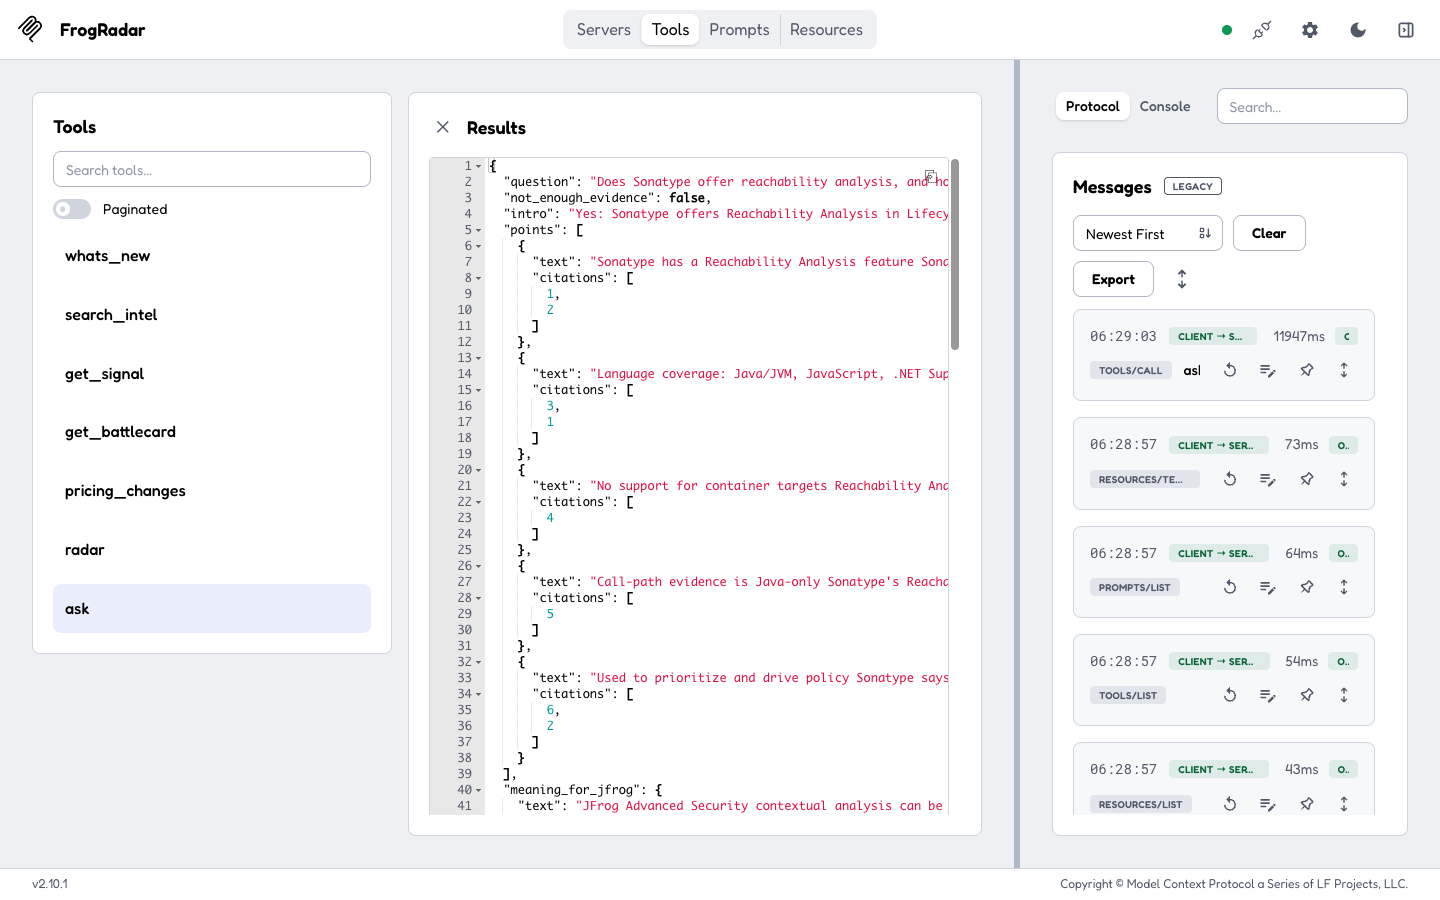
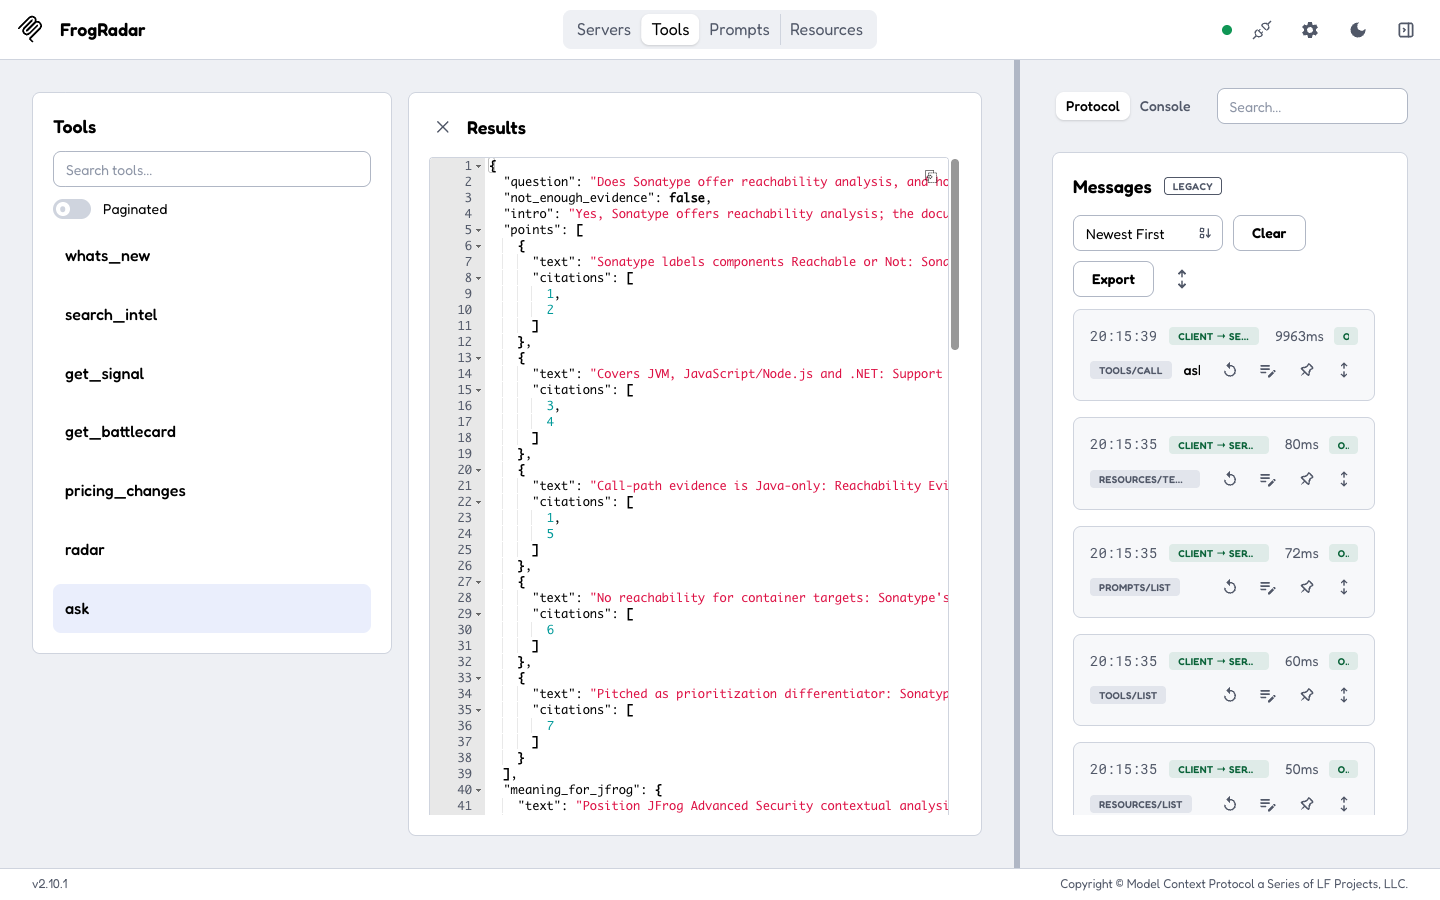
Screenshots: a running mission and the MCP ask tool, retaken against the current app
A research mission (Chainguard, from its battlecard; 4 sub-questions) captured mid-run on a
fresh seeded stack: the steps tile reads "4 of 16 planned", 4 steps per approved
sub-question, no fixed maximum. The MCP Inspector ask shot uses the same stack. Cost: mission
$0.039, ask $0.022.

diff --git a/docs/FEATURES.md b/docs/FEATURES.md
@@ -398,12 +398,11 @@ Install:
 - **Claude Desktop / claude.ai:** `cd skills && zip -r frogradar-ci-analyst.zip frogradar-ci-analyst`, then
   upload the zip under Settings → Capabilities → Skills.
 
-**Verified with the MCP Inspector (screenshots retaken 2026-10-24, stdio, a fresh stack with the seed, no provider
-keys):** tools listed ([screenshot](screenshots/mcp-inspector-tools.png)); `whats_new` found nothing in the last day
+**Verified with the MCP Inspector (screenshots retaken 2026-10-24, stdio, a fresh stack with the seed; the free
+tools ran without provider keys):** tools listed ([screenshot](screenshots/mcp-inspector-tools.png)); `whats_new` found nothing in the last day
 and widened to 7 days, 15 signals, saying so in its note ([screenshot](screenshots/mcp-whats-new.png));
 `get_battlecard("sonatype")` 17 sources and 10 matrix rows in 14.5 KB; `radar()` Ztrust, Akrites, PatchWave, Primod,
-Code Genome Project, Sonar ([screenshot](screenshots/mcp-radar.png)). Earlier (2026-10-22, dev DB), one paid `ask`, $0.022 (Sonnet $0.018 + gpt-5.4-mini check
-$0.004): "Does Sonatype offer reachability analysis, and how does it compare with JFrog's contextual analysis?"
-→ yes, 5 cited points (Java/JVM, JavaScript, .NET; no container targets; call-path evidence Java only) and what it
-means for JFrog, built from the S15 mission findings and the regenerated battlecard
-([screenshot](screenshots/mcp-ask.png)).
+Code Genome Project, Sonar ([screenshot](screenshots/mcp-radar.png)). One paid `ask` on the same stack, $0.022 (Sonnet $0.018 + gpt-5.4-mini check $0.004): "Does Sonatype
+offer reachability analysis, and how does it compare with JFrog's contextual analysis?" → yes, 5 cited points (JVM,
+JavaScript/Node.js, .NET; call-path evidence Java only; no container targets; pitched as prioritization) and what it
+means for JFrog ([screenshot](screenshots/mcp-ask.png)).
